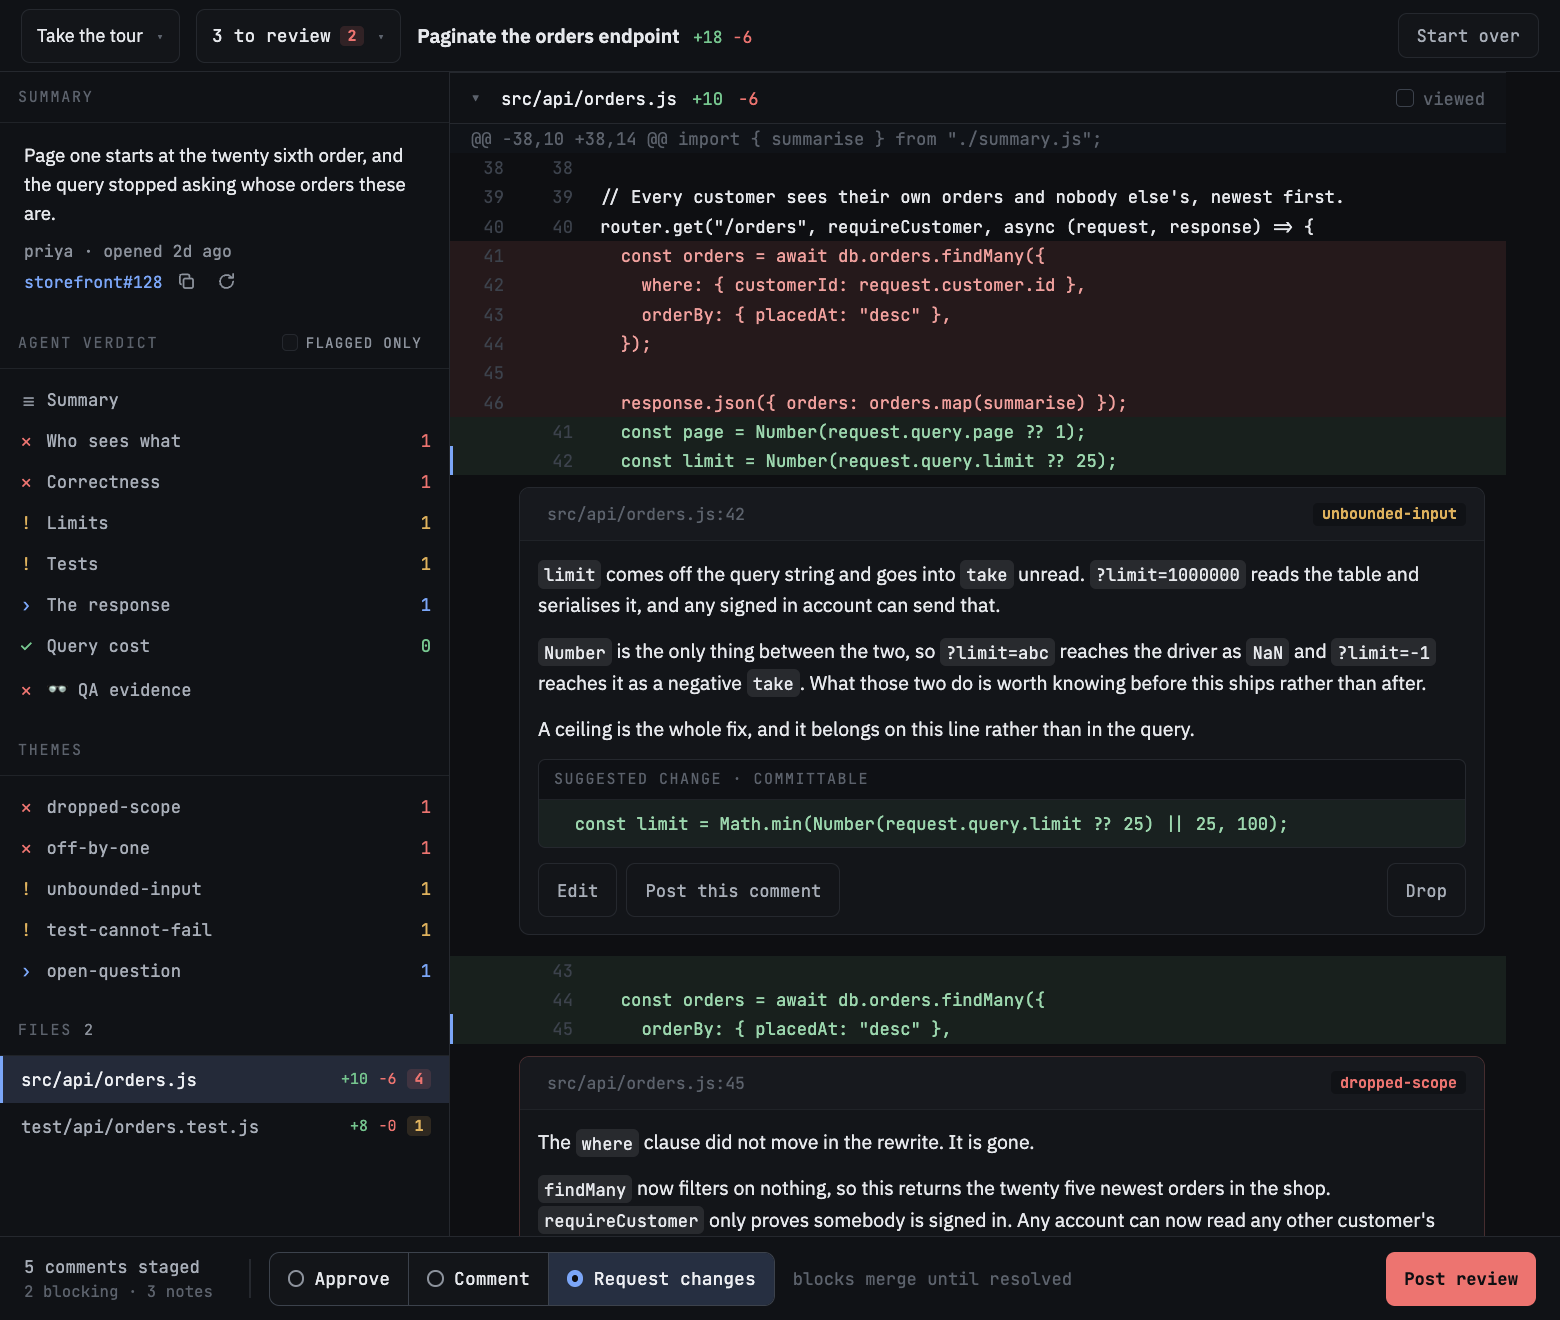
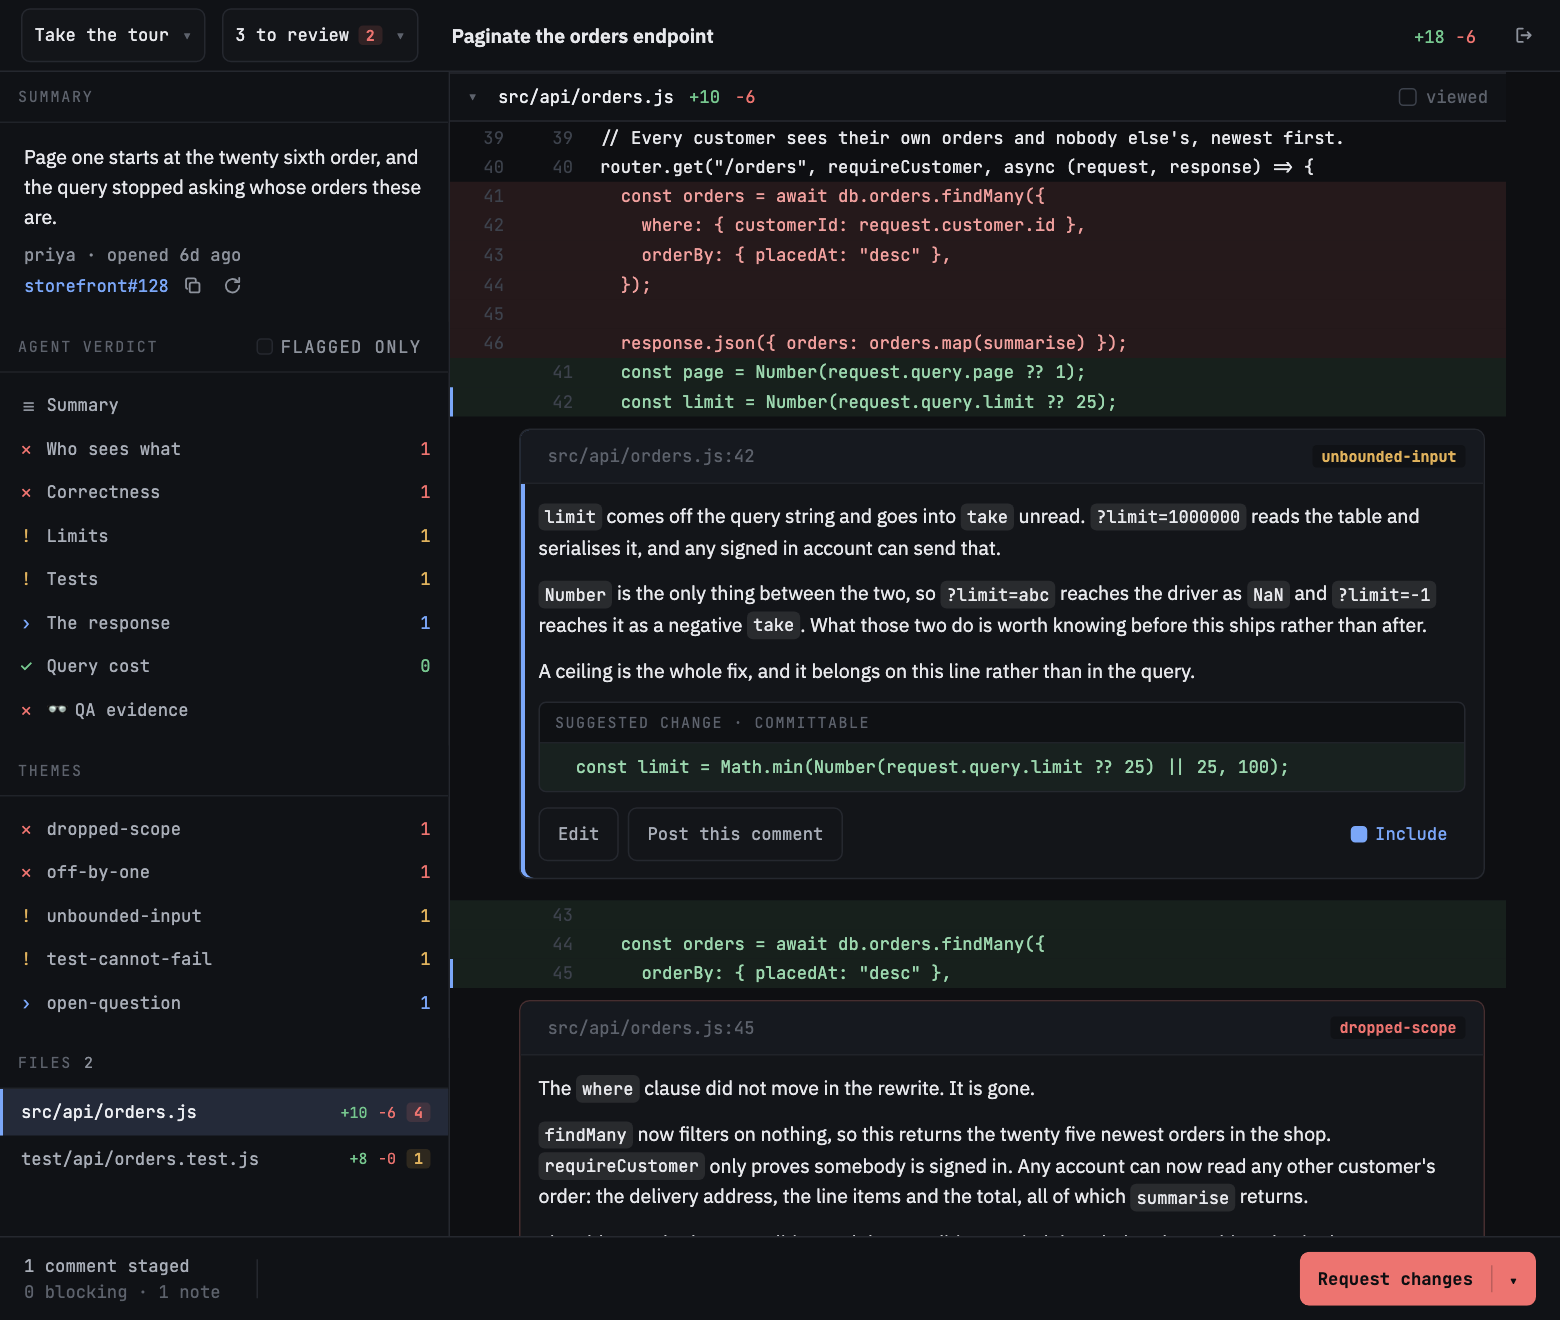
Reshoot the README's screenshots against the app as it is (#33)
Both were taken before a comment became something opted into rather than
out of, so the diff shot showed a Drop button on a card and a footer
claiming five comments staged on a review nobody had staged anything on.
The verdict row in both predated the send button becoming one control
with the verdict on it.

Reshot from the same demo at the same size, with one finding included so
the accent edge and the ticked control are both in the picture next to a
card that has neither. The QA shot's alt text still described what it
shows; only its footer was out of date.

diff --git a/README.md b/README.md
@@ -88,10 +88,11 @@ endpoint. The left rail lists every pass the agent made with its finding count,
 including Query cost, ticked with nothing flagged. In the diff the deleted
 where clause is struck through in red, and a finding card hangs under
 src/api/orders.js:42 explaining that the limit is unbounded, carrying a
-suggested change marked committable and Edit, Post this comment and Drop
-buttons. The footer reads five comments staged, two blocking and three notes,
-with Request changes
-selected.](docs/media/review-diff-finding.png)
+suggested change marked committable and Edit, Post this comment and Include
+controls. Include is ticked on it and the card wears an accent edge for it,
+while the card below at src/api/orders.js:45 is left unticked and plain. The
+footer reads one comment staged, zero blocking and one note, beside a Request
+changes button.](docs/media/review-diff-finding.png)
 
 **A change arrives because it is waiting on you.** The app asks GitHub which
 pull requests await your review and which are your own, and shows them in one
